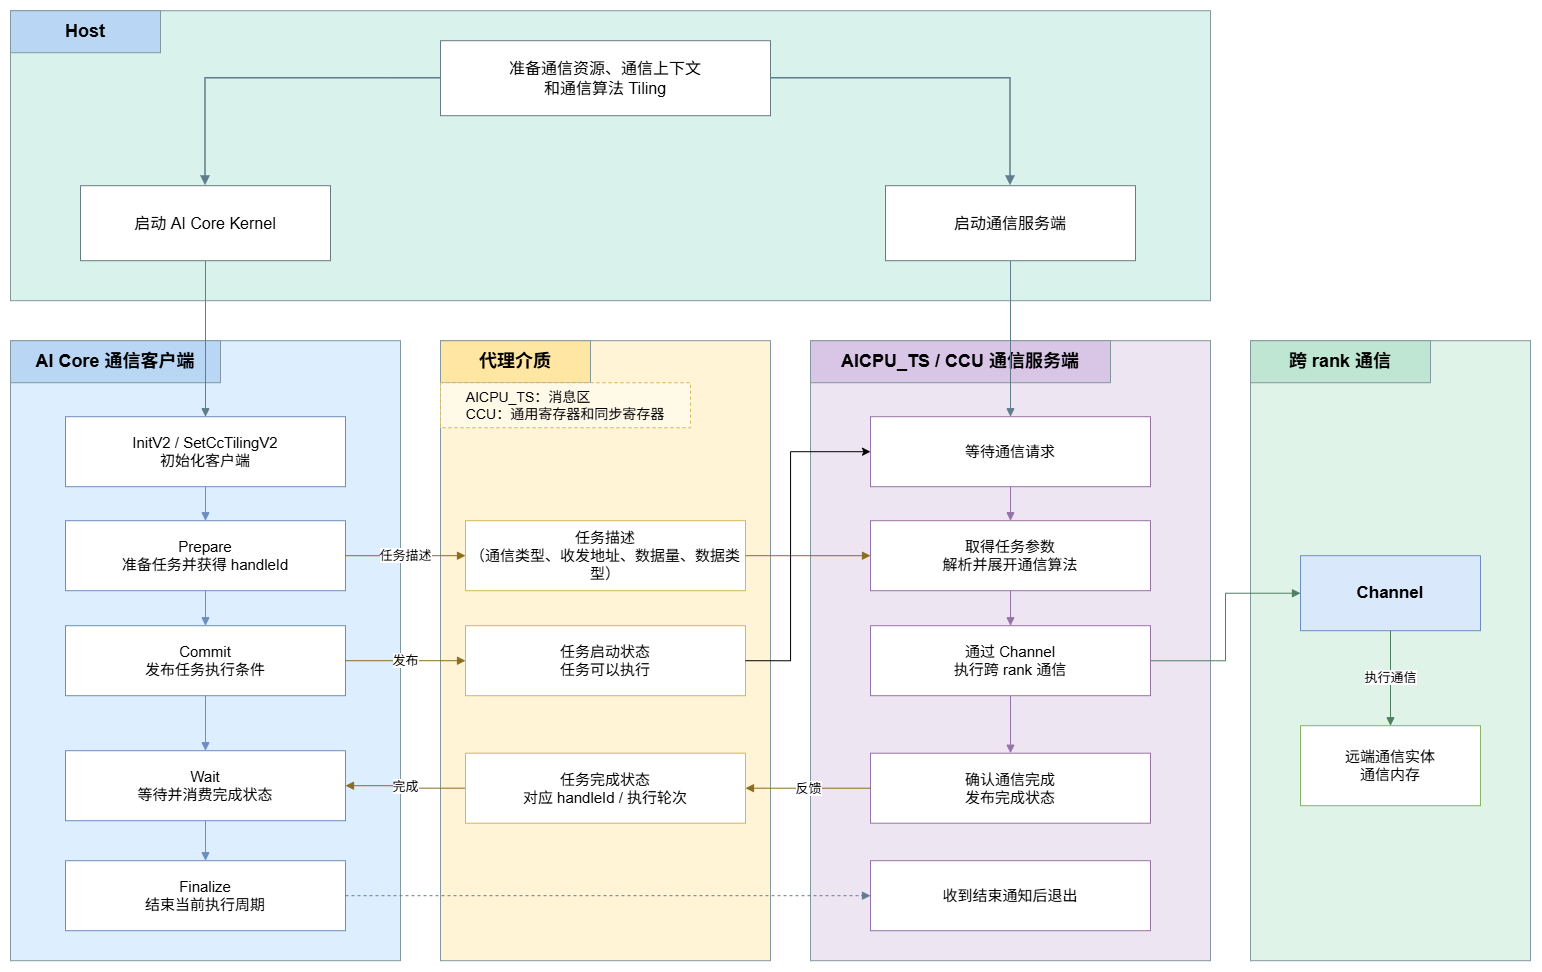
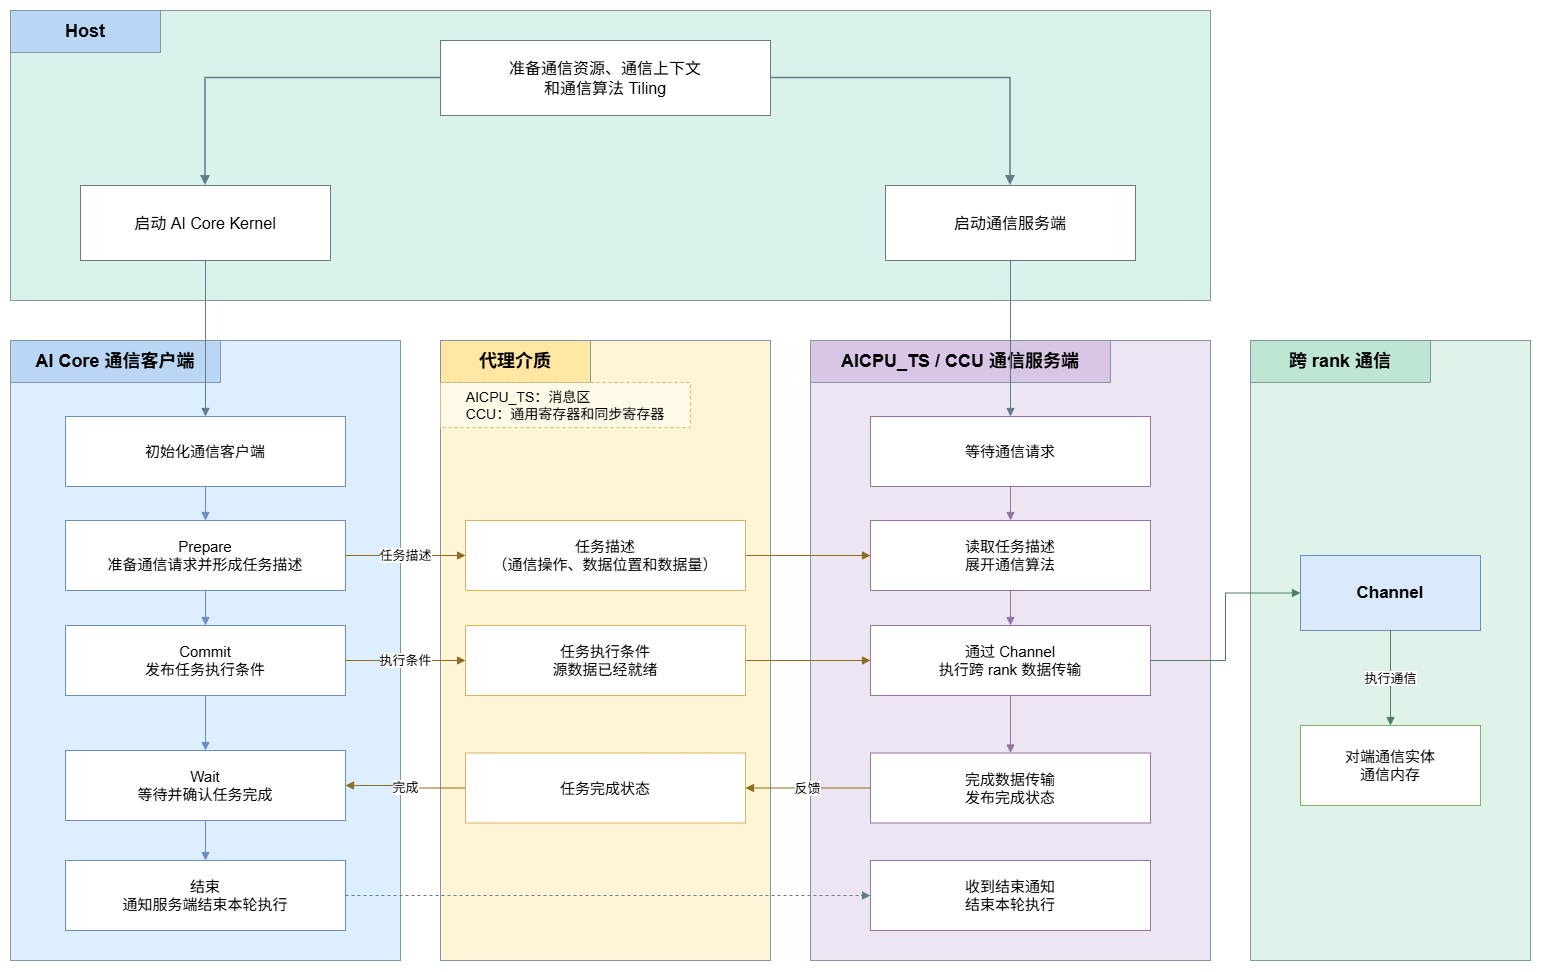
fix 执行模型

diff --git a/docs/zh/Programming-Model/execution_model.md b/docs/zh/Programming-Model/execution_model.md
@@ -4,20 +4,15 @@
 
 # 代理模式
 
-本文介绍代理模式下通信任务从准备、发布到完成的执行过程。在代理模式下，AI Core 作为通信客户端发起通信任务，AICPU_TS 或 CCU 作为通信服务端执行通信任务。本文重点说明通信客户端与通信服务端之间的任务传递、执行和完成关系。
+在代理模式下，当前算子 Kernel 通过 AI Core 通信客户端提交请求，通信服务端根据请求完成本端与对端之间的数据传输，并将完成状态返回给 AI Core。服务端类型以及通信请求的传递方式参见[通信模型](./communication_model.md)。
 
-Channel、Endpoint 和通信实体之间的关系参见[代理模式通信模型](./proxy_comm_model.md)，通信地址、访问授权和通信数据的一致性参见[内存模型](./memory_model.md)。
-
-## 模型概述
-
-代理模式将通信任务的发起方与执行方分离。Host 侧在 Kernel 启动前准备通信资源和通信上下文，并启动 AI Core 计算任务和通信服务端。Kernel 执行期间，AI Core 客户端负责描述通信任务、确定任务何时可以执行以及等待任务完成；通信服务端负责取得任务参数、展开通信算法、通过 Channel 执行通信操作并反馈完成状态。
+Host 侧在 Kernel 启动前准备通信资源和通信上下文，并启动 AI Core 计算任务和通信服务端。Kernel 执行期间，AI Core 客户端负责描述通信任务、确定任务何时可以执行以及等待任务完成；通信服务端负责取得任务参数、展开通信算法、通过 Channel 执行通信操作并反馈完成状态。
 
 代理执行模型包含以下两类服务端：
 
 - AICPU_TS 服务端：AI Core 与 AICPU_TS 通过消息区传递任务参数、任务发布状态和完成状态。
 - CCU 服务端：AI Core 与 CCU 通过 CCU 通用寄存器传递任务参数，通过同步寄存器传递任务启动和完成状态。
 
-基于 HCCL 高阶 API 开发时，上述差异由 API 封装，用户通过相同的 Prepare、`Commit`、`Wait` 和 `Finalize` 接口管理任务。采用自定义客户端与服务端协议时，用户基于 HCOMM 和 CCU 接口自行实现任务格式和同步机制。
 
 ## 代理执行机制
 
@@ -35,79 +30,19 @@ Channel、Endpoint 和通信实体之间的关系参见[代理模式通信模型
 | AICPU_TS 或 CCU 服务端 | 取得并解析任务参数，展开通信算法，通过 Channel 执行通信任务并发布完成状态 |
 | Channel | 确定跨 rank 通信对端、通信路径和远端内存访问关系 |
 
-通信任务按以下流程执行：
+图中展示了 Host 启动通信任务、AI Core 通信客户端提交请求、代理介质传递任务信息和状态，以及通信服务端完成数据传输并返回完成状态的过程。一次通信任务按照以下阶段执行：
 
-1. Host 侧准备通信资源和通信上下文，启动通信服务端和 AI Core Kernel。
-2. AI Core 客户端初始化通信对象，设置通信算法 Tiling，并调用集合通信 Prepare 接口准备任务。Prepare 接口记录通信类型、收发地址、数据量和数据类型等任务参数，并返回标识该任务的 `handleId`。
-3. AI Core 客户端完成源数据生产以及必要的核间同步后，调用 `Commit` 发布任务执行条件。服务端从该发布点开始执行任务，任务完成状态由客户端通过 `Wait` 确认。
-4. 通信服务端取得任务参数和执行条件，根据通信算法使用的 Channel 展开并执行跨 rank 通信操作。
-5. 通信任务完成后，服务端通过代理介质发布对应任务的完成状态。
-6. AI Core 客户端调用 `Wait` 等待并消费完成状态。当 `Wait` 返回 `HCCL_SUCCESS` 时，客户端可以读取该任务的输出数据；所有使用者完成访问后，可以复用相应的源内存、目的内存和任务资源。
-7. AI Core 客户端完成当前执行周期的全部通信任务后，调用 `Finalize` 通知服务端结束当前执行周期。
+1. **初始化**：Host 准备通信资源，启动通信服务端和 AI Core Kernel；AI Core 通信客户端完成本轮执行所需的初始化。
+2. **Prepare**：AI Core 准备通信请求，记录通信操作、数据位置和数据量等信息，形成任务描述。任务在 Commit 阶段进入可执行状态。
+3. **Commit**：AI Core 完成源数据生产以及必要的核间同步后，提交任务执行条件。Commit 表示源数据已经准备完成，通信服务端可以开始处理请求。Commit 完成后，AI Core 继续执行后续计算，通信完成状态由后续的 Wait 确认。
+4. **服务端执行**：通信服务端读取任务描述，根据其中的信息完成本端与对端之间的数据传输。数据传输完成后，通信服务端向 AI Core 返回完成状态。
+5. **Wait**：AI Core 等待并确认任务完成。Wait 完成表示本轮数据传输已经结束，AI Core 可以读取通信结果；相关数据使用结束后，源内存和目的内存可以复用。
+6. **结束**：当前 Kernel 中的通信任务全部完成后，AI Core 通信客户端通知通信服务端结束本轮执行。
 
-代理介质承载通信任务参数和执行状态，Channel 对应的通信通路承载跨 rank 用户数据。
+代理模式将通信任务交给独立的通信服务端执行，使通信服务端与 AI Core 可以分别执行通信和计算，为通算融合提供了并行执行基础。通算融合算子可以根据数据依赖关系安排通信和计算，一种典型编排如下所示：
 
-## 基于 HCCL 高阶 API 的执行流程
+**图2** 代理模式下的通算融合编排
 
-HCCL 高阶 API 为 AI Core 侧的集合通信任务客户端接口，MC2 算子是该接口的典型使用场景。用户在 AI Core Kernel 中管理通信任务的准备、发布和完成时机，服务端任务传递与完成反馈的具体实现由 API 封装。
+![](./figures/proxy_execution_parallel.png "代理模式下的通算融合编排")
 
-**图2** HCCL 高阶 API 单任务执行时序
-
-![](./figures/proxy_execution_sequence.png "HCCL高阶API单任务执行时序")
-
-### 初始化
-
-Host 侧在 Kernel 启动前准备通信上下文和通信算法 Tiling。AI Core 客户端在 Kernel 中按以下顺序完成初始化：
-
-1. 创建 `Hccl` 对象，通过 [`HcclServerType`](https://gitcode.com/cann/asc-devkit/blob/master/docs/zh/api/SIMD-API/adv_api/HCCL_communication/HCCL_Kernel/HCCL_template_params.md) 模板参数选择通信服务端，并可通过 `HcclServerConfig` 指定负责向服务端下发任务的 AI Core 类型和 block。
-2. 调用 [`InitV2`](https://gitcode.com/cann/asc-devkit/blob/master/docs/zh/api/SIMD-API/adv_api/HCCL_communication/HCCL_Kernel/InitV2.md) 传入通信上下文和初始化 Tiling。
-3. 调用 [`SetCcTilingV2`](https://gitcode.com/cann/asc-devkit/blob/master/docs/zh/api/SIMD-API/adv_api/HCCL_communication/HCCL_Kernel/SetCcTilingV2.md) 设置对应集合通信算法的 Tiling 地址。
-
-### 任务准备与发布
-
-用户调用 [`AllGather`](https://gitcode.com/cann/asc-devkit/blob/master/docs/zh/api/SIMD-API/adv_api/HCCL_communication/HCCL_Kernel/AllGather.md)、[`AllReduce`](https://gitcode.com/cann/asc-devkit/blob/master/docs/zh/api/SIMD-API/adv_api/HCCL_communication/HCCL_Kernel/AllReduce.md) 或 [`ReduceScatter`](https://gitcode.com/cann/asc-devkit/blob/master/docs/zh/api/SIMD-API/adv_api/HCCL_communication/HCCL_Kernel/ReduceScatter.md) 等 Prepare 接口准备通信任务。一次 Prepare 调用返回一个 `handleId`，后续通过该 `handleId` 发布和等待对应任务。
-
-Prepare 接口建立任务描述，`Commit` 发布该任务的数据传输执行条件。两类服务端对任务描述的处理方式不同：
-
-- 使用 AICPU_TS 服务端时，Prepare 接口将任务描述写入消息区，AICPU_TS 读取并解析任务，在收到任务发布状态后执行该任务对应的数据传输。
-- 使用 CCU 服务端时，Prepare 接口记录任务描述；AI Core 调用 `Commit` 时，客户端选择可用任务槽位，将本轮任务参数写入该槽位对应的通用寄存器，并置起启动同步寄存器。
-
-源数据准备完成后，用户调用 [`Commit`](https://gitcode.com/cann/asc-devkit/blob/master/docs/zh/api/SIMD-API/adv_api/HCCL_communication/HCCL_Kernel/Commit.md) 发布任务。`Commit` 是客户端向服务端发布“任务可以执行”这一条件的接口边界。若 Prepare 接口的模板参数 `commit` 取值为 `true`，Prepare 接口会同时完成任务发布。
-
-调用 `Commit` 前，用户必须保证该任务使用的源数据已经生成完成，并保证负责发布任务的 AI Core 可以观察到源数据已经就绪。如果源数据由其他 AI Core 生成，用户需要根据算子编排先完成计算核之间的数据生产同步，再调用 `Commit`。
-
-`Commit` 返回后，服务端可能正在读取源内存或写入目的内存。在对应的 `Wait` 返回前，该轮通信使用的源内存和目的内存区域必须保持有效，源内存区域保持内容不变，目的内存区域交由通信服务端写入。用户可以同时执行访问其他内存区域的计算。
-
-### 任务完成与结束
-
-用户调用 [`Wait`](https://gitcode.com/cann/asc-devkit/blob/master/docs/zh/api/SIMD-API/adv_api/HCCL_communication/HCCL_Kernel/Wait.md) 阻塞当前 AI Core，直到 `handleId` 对应的一轮通信任务完成。两类服务端向用户提供相同的完成语义：`Wait` 返回表示对应的一轮通信已经完成，底层完成状态由 HCCL 高阶 API 管理。
-
-`Wait` 返回后，当前任务的通信输出可以由客户端读取或用于后续计算。
-
-完成当前执行周期的全部通信任务后，用户调用 [`Finalize`](https://gitcode.com/cann/asc-devkit/blob/master/docs/zh/api/SIMD-API/adv_api/HCCL_communication/HCCL_Kernel/Finalize.md) 通知服务端退出：
-
-- `Finalize<true>` 为默认形式，客户端等待最后一个通信任务完成后结束当前执行周期。
-- `Finalize<false>` 只发送结束通知，不等待已下发任务完成，不表示输出数据已经可用，也不保证接口返回时对端已经收到数据。
-
-> [!CAUTION]注意
-> - `Finalize` 结束当前 `Hccl` 对象的执行周期。后续通信需要重新创建并初始化 `Hccl` 对象。
-> - `Wait` 和具有同步语义的 `Finalize` 确认通信任务完成。AI Core 之间的计算进度和代码执行位置通过核间同步接口确认。
-> - 多个 AI Core 参与同一个通信执行周期时，需要在 `Finalize` 前使用 `SyncAll`、`CrossCoreSetFlag` 和 `CrossCoreWaitFlag` 等适当的核间同步接口，确保所有参与核均已完成任务准备、发布和等待，再由服务端结束当前执行周期。
-
-## AICPU_TS 与 CCU 服务端的执行差异
-
-HCCL 高阶 API 向用户提供统一的任务生命周期，两类服务端的差异主要体现在代理介质和内部任务推进方式。
-
-| 执行阶段 | AICPU_TS 服务端 | CCU 服务端 |
-| --- | --- | --- |
-| 任务描述 | Prepare 将任务参数写入消息区 | Prepare 记录任务参数，`Commit` 时写入任务槽位对应的通用寄存器 |
-| 任务发布 | `Commit` 更新消息区中的任务发布状态 | `Commit` 置起任务槽位对应的启动同步寄存器 |
-| 服务端执行 | AICPU_TS 读取并解析消息区中的任务，通过 Channel 执行通信 | CCU 指令流等待启动状态，读取通用寄存器并通过 Channel 执行通信 |
-| 完成反馈 | AICPU_TS 更新消息区中的完成轮次 | CCU 置起任务槽位对应的完成同步寄存器 |
-| 客户端完成接口 | `Wait` 等待对应完成轮次 | `Wait` 等待对应完成轮次 |
-
-HCCL 高阶 API 负责读写消息区或 CCU 寄存器，并管理任务发布和完成协议，用户通过统一接口控制任务生命周期。
-
-## 自定义客户端与服务端协议
-
-采用自定义代理协议时，用户可以基于已有的 HCOMM 和 CCU 接口设计 AI Core 客户端与 AICPU_TS 或 CCU 服务端之间的任务格式和同步机制。暂无实现。
+在这种编排中，Commit 发布任务执行条件后，通信服务端开始从源内存读取本轮数据并将通信结果写入目的内存，AI Core 继续使用其他数据区域执行与本轮通信没有数据依赖的计算。AI Core 在首次需要使用通信结果的位置执行 Wait；Wait 完成后，目的内存中的通信结果可以用于后续计算。通过将独立计算安排在 Commit 与 Wait 之间，通算融合算子可以重叠通信与计算的执行时间。
